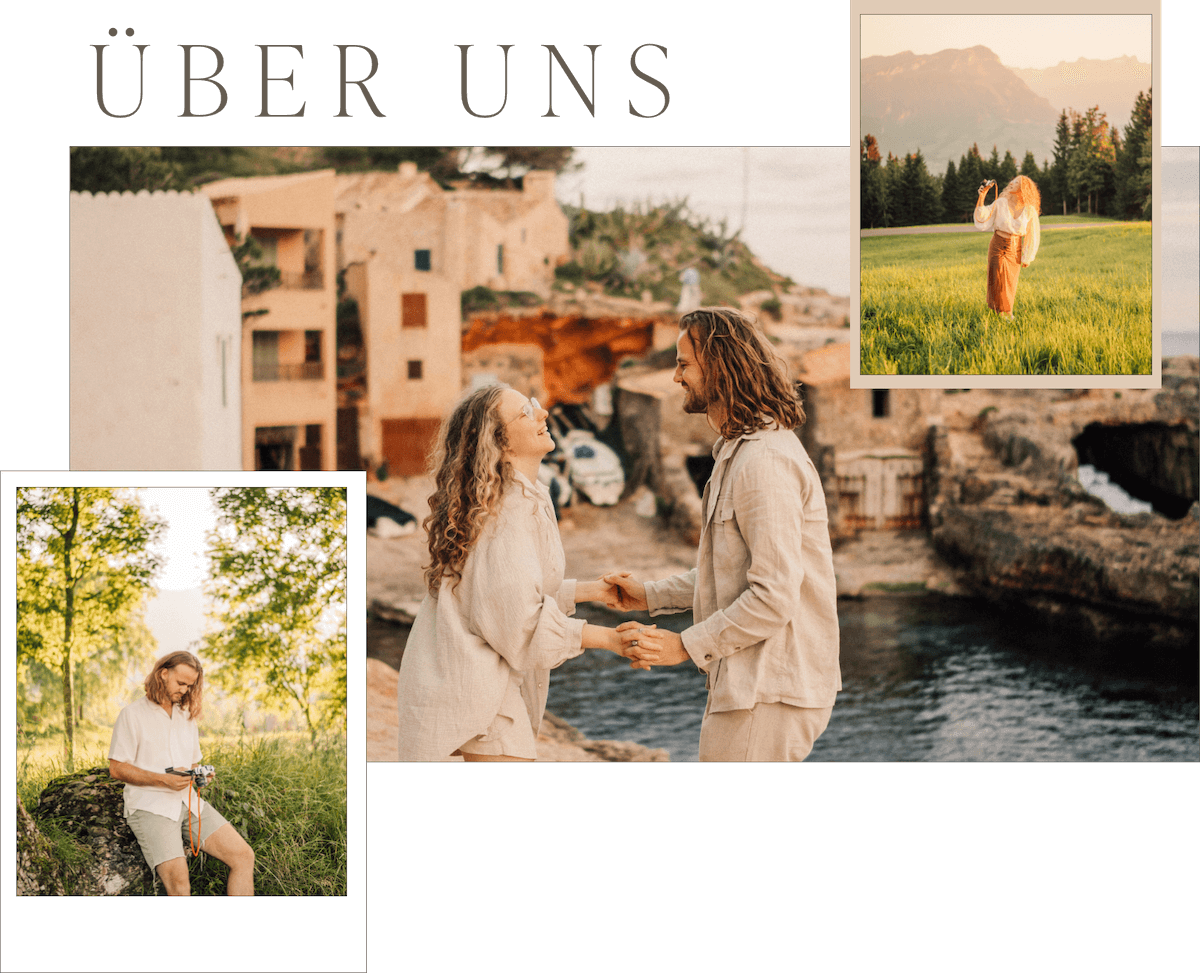
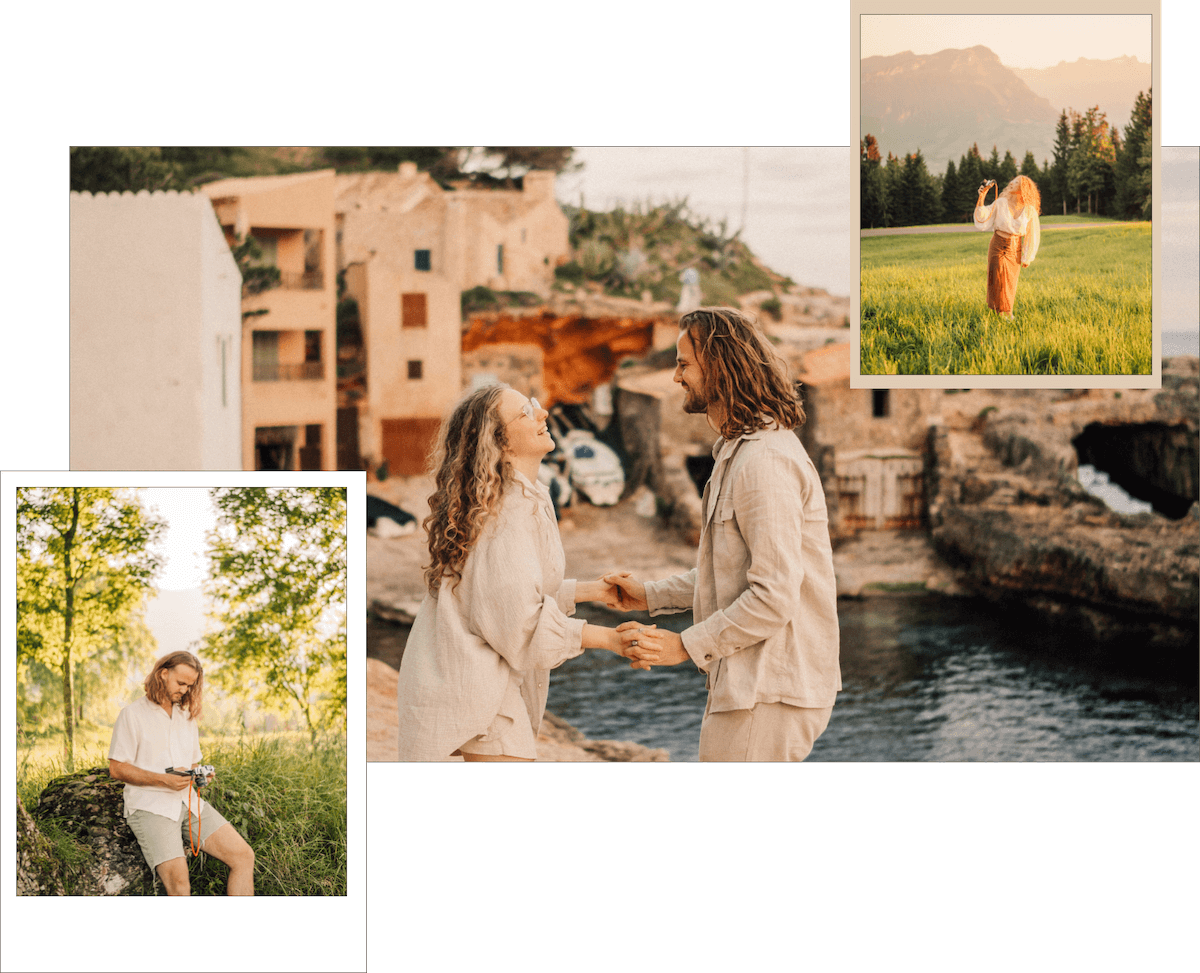
a

diff --git a/style.css b/style.css
@@ -438,19 +438,19 @@ html {
 .po7 {
   position: absolute;
   top: -39px;
-  min-width: 47rem;
+  min-width: 39rem;
   bottom: 0;
-  right: 0;
-  z-index: -6;
+  right: -20px;
+  z-index: -3;
 }
 
 
 .po8 {
   position: absolute;
-  top: -39px;
-  min-width: 47rem;
+  top: -58px;
+  min-width: 44rem;
   bottom: 0;
-  right: -1rem;
+  right: -2.6rem;
   z-index: -5;
 }
 
@@ -581,6 +581,13 @@ html {
   position: absolute;
   bottom: 1.7rem;
   left: 7rem;
+}
+
+.po28 {
+  position: absolute;
+  top: 4rem;
+  left: 5rem;
+  font-size: 3.5rem;
 }
 
 .logo-header-4 {
@@ -2709,10 +2716,10 @@ input.tgg-title {
         right: 15rem;
       }
       .po7 {
-        top: 34px;
+        top: -47px;
       }
       .po8 {
-        top: 34px;
+        top: -58px;
       }
 
       .swiper-testimonial .swiper-button-next, .swiper-rtl .swiper-button-prev {
@@ -2725,6 +2732,13 @@ input.tgg-title {
         left: var(--swiper-navigation-sides-offset, 5%);
         right: auto;
         top: 96%;
+      }
+
+      .po28 {
+        position: absolute;
+        top: 3rem;
+        left: 5rem;
+        font-size: 3rem;
       }
   
 }
@@ -3387,6 +3401,12 @@ input.tgg-title {
     height: auto;
   }
 
+  .po28 {
+    position: absolute;
+    top: 1rem;
+    left: 2rem;
+    font-size: 2.5rem;
+  }
 
 
 }

diff --git a/index.html b/index.html
@@ -192,9 +192,9 @@ testimonials:
 
 
 <section class="padded-t-c1 padded capped-width">
-  <div class="relative center xs-right">
+  <div class="relative center">
     <a href="/anfrage.html" class="button-light"> JETZT BUCHEN </a>
-    <img src="/images/illustrationen/laptop.svg" class="po27">
+    <!-- <img src="/images/illustrationen/laptop.svg" class="po27"> -->
   </div>
 </section>
 
@@ -474,9 +474,11 @@ testimonials:
 
 
 <section class="padded-t-c3">
-  <div class="padded padded-b-2 capped-width">
+  <div class="padded padded-b-2 capped-width relative">
     <img src="/images/index/index-ueber-uns.png" class="hide-xs">
     <img src="/images/index/index-ueber-uns-mobile.png" class="show-xs">
+
+    <h2 class="po28"> ÜBER UNS </h2>
   </div>
   <div class="marquee po10">
     <ul class="marquee-content">
